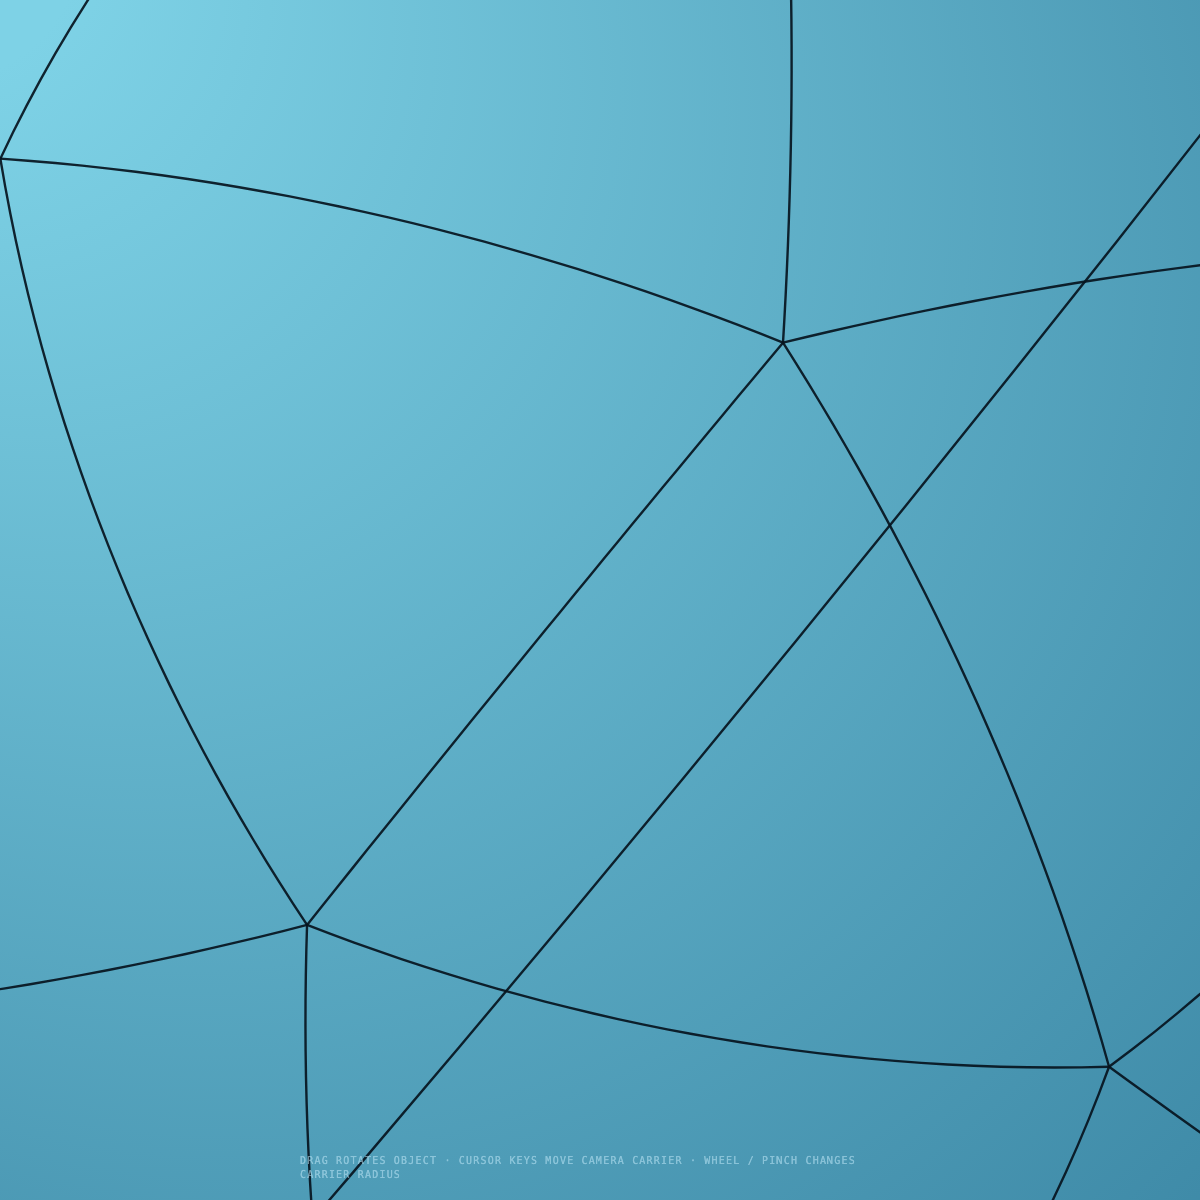
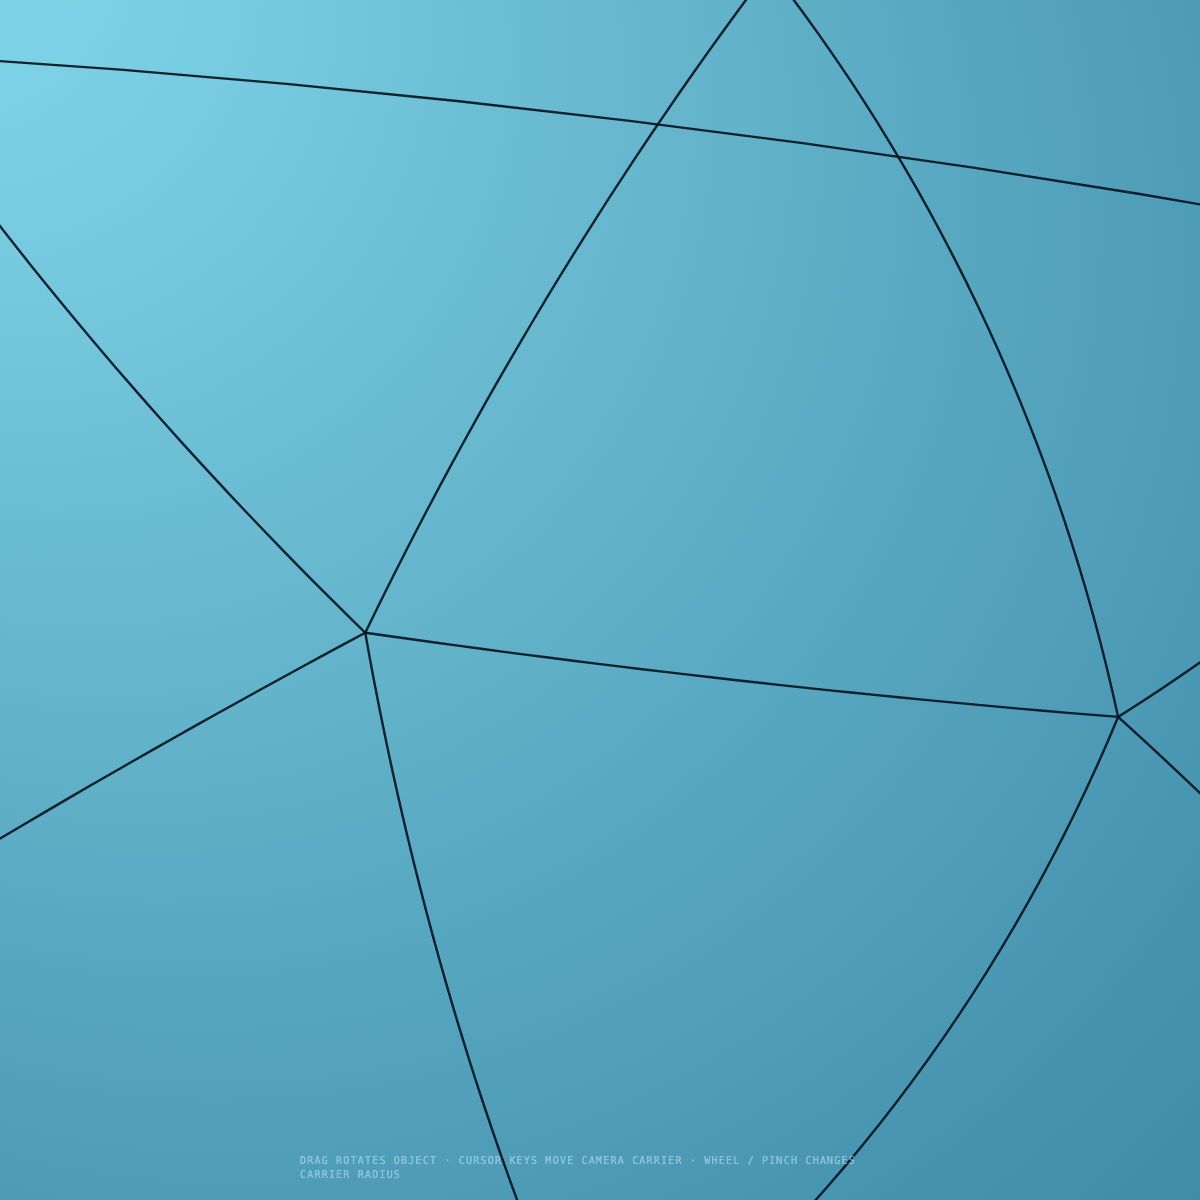
Carrier pos/up spherical pane camera; mathematically and visually tested

diff --git a/public/js/icosahedron-viewer.js b/public/js/icosahedron-viewer.js
@@ -5,7 +5,7 @@
  * - Wheel/pinch: changes the carrier sphere radius with fixed focal length (true dolly).
  */
 import { SphereCamera, SPHERE_SCREEN_FRACTION, CAMERA_DISTANCE, baseIcosahedron } from './shared/geometry.js';
-import { unprojectSphere as unprojectSurface, shortestArcQuat } from './shared/sphere-interaction.js';
+import { unprojectSphere as unprojectSurface, shortestArcQuat, carrierFrame, carrierProject, carrierUnproject, moveCarrier } from './shared/sphere-interaction.js';
 
 const canvas = document.getElementById('icosa-canvas');
 const ctx = canvas.getContext('2d');
@@ -23,8 +23,9 @@ const MAX_DISTANCE = 8.0;
 // Object rotation (mouse) as a world-space quaternion.
 let objectQ = { x: 0, y: 0, z: 0, w: 1 };
 
-// Camera orbit is a free quaternion; cursor keys rotate it locally with no pole clamp.
-const ORBIT_STEP = 28; // px passed to SphereCamera.rotate (0.006 rad/px)
+// Camera carrier: position + parallel-transported local up frame on the sphere.
+const ORBIT_STEP = 0.12; // radians per cursor press
+let carrier = carrierFrame(camera.viewAxis(), { x: 0, y: 1, z: 0 });
 
 let dpr = 1;
 let W = 1;
@@ -81,25 +82,22 @@ resize();
 
 /** Screen point -> visible unit-sphere surface point. */
 function focalPixels() {
-  // Fixed focal length: moving the carrier must change perspective, not scale.
+  // Fixed focal length: moving the carrier changes perspective, not optical zoom.
   return Math.min(W, H) * SPHERE_SCREEN_FRACTION * CAMERA_DISTANCE;
 }
 
 function projectPoint(v) {
-  const f = focalPixels();
-  const pv = qRotateVec(camera._q, v);
-  const depth = camera.distance - pv.z;
-  if (!(depth > 1e-9)) return { x: 0, y: 0, z: pv.z, visible: false };
+  const p = carrierProject(camera.distance, focalPixels(), carrier, v);
   return {
-    x: W / 2 + (f * pv.x) / depth,
-    y: H / 2 - (f * pv.y) / depth,
-    z: pv.z,
-    visible: pv.z > 0,
+    x: W / 2 + p.x,
+    y: H / 2 + p.y,
+    z: p.z,
+    visible: p.visible,
   };
 }
 
 function unprojectSphere(xPx, yPx) {
-  return unprojectSurface(camera, xPx, yPx, W, H, focalPixels());
+  return carrierUnproject(camera.distance, focalPixels(), carrier, xPx, yPx, W, H);
 }
 
 function draw() {
@@ -214,11 +212,11 @@ canvas.addEventListener('pointercancel', endPointer);
 
 window.addEventListener('keydown', (event) => {
   switch (event.key) {
-    // Local quaternion orbit: same Up direction forever, loops over poles, no clamp.
-    case 'ArrowLeft': camera.rotate(-ORBIT_STEP, 0); event.preventDefault(); break;
-    case 'ArrowRight': camera.rotate(ORBIT_STEP, 0); event.preventDefault(); break;
-    case 'ArrowUp': camera.rotate(0, ORBIT_STEP); event.preventDefault(); break;
-    case 'ArrowDown': camera.rotate(0, -ORBIT_STEP); event.preventDefault(); break;
+    // Carrier moves locally on the sphere; no Euler/pole lock.
+    case 'ArrowLeft': carrier = moveCarrier(carrier, -1, 0, ORBIT_STEP); event.preventDefault(); break;
+    case 'ArrowRight': carrier = moveCarrier(carrier, 1, 0, ORBIT_STEP); event.preventDefault(); break;
+    case 'ArrowUp': carrier = moveCarrier(carrier, 0, 1, ORBIT_STEP); event.preventDefault(); break;
+    case 'ArrowDown': carrier = moveCarrier(carrier, 0, -1, ORBIT_STEP); event.preventDefault(); break;
     default: break;
   }
 });
@@ -229,4 +227,4 @@ canvas.addEventListener('wheel', (event) => {
   camera.distance = carrierDistance;
 }, { passive: false });
 
-window.__ICOSA_VIEW__ = { camera, objectQ: () => objectQ, vertices, unprojectSphere, project: (v) => projectPoint(qRotateVec(objectQ, v)), orbit: () => ({ yaw: camera._yaw, pitch: camera._pitch, q: camera._q, viewAxis: camera.viewAxis() }), setObjectQ: (q) => { objectQ = qNorm(q); } };
+window.__ICOSA_VIEW__ = { camera, objectQ: () => objectQ, vertices, unprojectSphere, project: (v) => projectPoint(qRotateVec(objectQ, v)), carrier: () => ({ pos: { ...carrier.pos }, up: { ...carrier.up }, distance: camera.distance }), setObjectQ: (q) => { objectQ = qNorm(q); } };

diff --git a/public/js/shared/sphere-interaction.js b/public/js/shared/sphere-interaction.js
@@ -41,3 +41,70 @@ export function shortestArcQuat(p0, p1) {
 
 export const dotVec = dot;
 export const normVec = norm;
+
+/** Orthonormal camera frame on the carrier sphere. */
+export function carrierFrame(pos, up) {
+  const p = norm(pos);
+  let u = norm(up);
+  u = norm(sub(u, mul(p, dot(u, p))));
+  if (Math.hypot(u.x, u.y, u.z) < 1e-9) {
+    const seed = Math.abs(p.y) < 0.9 ? { x: 0, y: 1, z: 0 } : { x: 0, y: 0, z: 1 };
+    u = norm(sub(seed, mul(p, dot(seed, p))));
+  }
+  const right = norm(cross(u, p));
+  return { pos: p, up: u, right };
+}
+
+/** Fixed-focal projection from a carrier point; the camera always faces centre. */
+export function carrierProject(carrierDistance, focalPx, frame, point) {
+  const depth = carrierDistance - dot(point, frame.pos);
+  if (!(depth > 1e-9)) return { x: 0, y: 0, z: 0, visible: false };
+  return {
+    x: (focalPx * dot(point, frame.right)) / depth,
+    y: -(focalPx * dot(point, frame.up)) / depth,
+    z: dot(point, frame.pos),
+    visible: dot(point, frame.pos) > 0,
+    depth,
+  };
+}
+
+/** Screen ray -> sphere point from the carrier frame. */
+export function carrierUnproject(carrierDistance, focalPx, frame, xPx, yPx, width, height) {
+  const X = xPx - width / 2;
+  const Y = height / 2 - yPx;
+  const dir = norm(add(add(mul(frame.right, X), mul(frame.up, Y)), mul(frame.pos, -focalPx)));
+  const origin = mul(frame.pos, carrierDistance);
+  const b = 2 * dot(origin, dir);
+  const c = dot(origin, origin) - 1;
+  const disc = b * b - 4 * c;
+  if (!(disc >= 0)) return null;
+  const t = (-b - Math.sqrt(disc)) / 2;
+  if (!(t > 0)) return null;
+  return norm(add(origin, mul(dir, t)));
+}
+
+/** Move carrier on its sphere. dx=right/left, dy=up/down; no Euler/pole lock. */
+export function moveCarrier(frame, dx, dy, angle) {
+  const p = frame.pos;
+  const t = norm(add(mul(frame.right, dx), mul(frame.up, dy)));
+  if (Math.hypot(t.x, t.y, t.z) < 1e-12) return frame;
+  const a = angle;
+  const cos = Math.cos(a);
+  const sin = Math.sin(a);
+  const nextPos = norm(add(mul(p, cos), mul(t, sin)));
+  // Parallel transport up around the great-circle normal.
+  const axis = norm(cross(p, t));
+  const q = {
+    x: axis.x * Math.sin(-a / 2),
+    y: axis.y * Math.sin(-a / 2),
+    z: axis.z * Math.sin(-a / 2),
+    w: Math.cos(a / 2),
+  };
+  const rotate = (v) => {
+    const tx = 2 * (q.y * v.z - q.z * v.y);
+    const ty = 2 * (q.z * v.x - q.x * v.z);
+    const tz = 2 * (q.x * v.y - q.y * v.x);
+    return { x: v.x + q.w * tx + (q.y * tz - q.z * ty), y: v.y + q.w * ty + (q.z * tx - q.x * tz), z: v.z + q.w * tz + (q.x * ty - q.y * tx) };
+  };
+  return carrierFrame(nextPos, rotate(frame.up));
+}

diff --git a/test/sphere-interaction.test.js b/test/sphere-interaction.test.js
@@ -2,7 +2,7 @@ import test from 'node:test';
 import assert from 'node:assert/strict';
 
 import { SphereCamera, baseIcosahedron } from '../public/js/shared/geometry.js';
-import { unprojectSphere, shortestArcQuat } from '../public/js/shared/sphere-interaction.js';
+import { unprojectSphere, shortestArcQuat, carrierFrame, carrierProject, carrierUnproject, moveCarrier } from '../public/js/shared/sphere-interaction.js';
 
 const apply = (q, v) => {
   const tx = 2 * (q.y * v.z - q.z * v.y);
@@ -55,4 +55,38 @@ test('camera orbit: Up remains finite for a full loop and does not change distan
     assert.ok(Number.isFinite(axis.x) && Number.isFinite(axis.y) && Number.isFinite(axis.z));
   }
   assert.equal(cam.distance, distance, 'cursor orbit does not change carrier radius');
+});
+
+test('carrier pane: Up/Down/Left/Right always move along the current local tangent', () => {
+  const dot = (a, b) => a.x * b.x + a.y * b.y + a.z * b.z;
+  let frame = carrierFrame({ x: 0, y: 0, z: 1 }, { x: 0, y: 1, z: 0 });
+  for (let i = 0; i < 200; i += 1) {
+    const old = frame;
+    frame = moveCarrier(frame, 0, 1, 0.12);
+    const delta = { x: frame.pos.x - old.pos.x, y: frame.pos.y - old.pos.y, z: frame.pos.z - old.pos.z };
+    assert.ok(dot(delta, old.up) > 0, `Up step ${i} moved along local Up`);
+    assert.ok(Math.abs(dot(frame.pos, frame.up)) < 1e-9);
+    assert.ok(Math.abs(Math.hypot(frame.pos.x, frame.pos.y, frame.pos.z) - 1) < 1e-9);
+    assert.ok(Math.abs(Math.hypot(frame.up.x, frame.up.y, frame.up.z) - 1) < 1e-9);
+  }
+  let r = carrierFrame({ x: 0, y: 0, z: 1 }, { x: 0, y: 1, z: 0 });
+  for (let i = 0; i < 80; i += 1) {
+    const old = r;
+    r = moveCarrier(r, 1, 0, 0.12);
+    const delta = { x: r.pos.x - old.pos.x, y: r.pos.y - old.pos.y, z: r.pos.z - old.pos.z };
+    assert.ok(dot(delta, old.right) > 0, `Right step ${i} moved along local Right`);
+  }
+});
+
+test('carrier projection and unprojection recover a visible surface point', () => {
+  const frame = carrierFrame({ x: 0, y: 0, z: 1 }, { x: 0, y: 1, z: 0 });
+  const focal = 480 * 3.2;
+  const v = { x: 0.2, y: 0.1, z: 0.97 };
+  const n = Math.hypot(v.x, v.y, v.z);
+  const unit = { x: v.x / n, y: v.y / n, z: v.z / n };
+  const s = carrierProject(3.2, focal, frame, unit);
+  const back = carrierUnproject(3.2, focal, frame, 600 + s.x, 600 + s.y, 1200, 1200);
+  assert.ok(back);
+  const err = Math.hypot(back.x - unit.x, back.y - unit.y, back.z - unit.z);
+  assert.ok(err < 1e-9, `carrier ray recovers point, err=${err}`);
 });

diff --git a/narimato-physics.md b/narimato-physics.md
@@ -25,11 +25,12 @@
 One camera. It always sits on a **concentric orbit sphere** around the object centre.
 
 - The camera is fixed to a carrier point on that outer sphere.
+- The carrier has a position `pos` and a parallel-transported local `up` tangent.
 - **Zoom changes the carrier sphere radius** (`camera.distance`) with a **fixed focal length**;
   moving the carrier changes perspective/size like a real dolly, not a projection zoom.
-- The camera orbits freely and always faces the centre; zoom changes the carrier radius.
+- The camera always faces the centre; the projection uses the carrier frame.
 - “Space”, “flight”, “building” and “surface” are **the same object viewed by the same camera
-  orbit at a chosen orientation**, not different cameras with different distances.
+  carrier at a chosen position**, not different cameras.
 
 ### Camera orbit (cursor keys)
 
@@ -74,14 +75,15 @@ Screen → ray → sphere intersection:
 
 ```
 focal  = min(W,H) * SPHERE_SCREEN_FRACTION * CAMERA_DISTANCE  // fixed
-screenX = W/2 + focal * pv.x / (camera.distance - pv.z)
-screenY = H/2 - focal * pv.y / (camera.distance - pv.z)
+camera-space point: (dot(point,right), dot(point,up), dot(point,pos))
+depth = camera.distance - dot(point,pos)
+screenX = W/2 + focal * dot(point,right) / depth
+screenY = H/2 - focal * dot(point,up) / depth
 X = x - W/2
 Y = H/2 - y                      // screen Y is down; camera Y is up
 
-dirCam    = normalize(X, Y, -focal)      // NEGATIVE z: ray goes into the scene
-dirWorld  = camera.unprojectView(dirCam) // camera space → world space
-origin    = camera.viewAxis() * camera.distance
+dirWorld  = normalize(right*X + up*Y - pos*focal)
+origin    = pos * camera.distance
 ```
 
 Intersect the ray `origin + t·dirWorld` with the unit sphere centred at the origin:
@@ -101,9 +103,9 @@ grab returns `null` — dragging then does nothing.
 | Piece | Choice | Why |
 |---|---|---|
 | Object rotation | world-space quaternion `objectQ` | no gimbal lock, arbitrary orientation, shortest-arc |
-| Camera orbit | free quaternion (`camera.rotate` locally) | camera moves independently from object, no clamp |
+| Camera orbit | carrier `pos` + parallel-transported `up` | spherical-pane movement, no Euler/pole reversal |
 | Mouse | surface-point unprojection + shortest-arc quaternion | grabbed point follows cursor exactly |
-| Cursor keys | free camera quaternion | explicit local up/down/left/right, infinite orbit |
+| Cursor keys | `moveCarrier` | explicit local up/down/left/right, infinite orbit |
 | Zoom | `camera.distance` (carrier radius) | zoom dollies the carrier toward/away from the planet |
 | Geometry | `baseIcosahedron()` | one object, 20 spherical triangles |
 
@@ -113,10 +115,12 @@ grab returns `null` — dragging then does nothing.
   - `SphereCamera` quaternion orientation, `project()`, `unprojectView()`, `viewAxis()`,
     `beginVirtualTrackball()` / `virtualTrackballTo()` (kept for generic trackball use only).
 - `public/js/shared/orbit-controls.js`
-  - shared `applyScreenDrag`, `applyArrowKey`, `beginTrackball`, `dragTrackball`.
+  - shared `applyScreenDrag`, `applyArrowKey`, `beginTrackball`, `dragTrackball` (game input).
+- `public/js/shared/sphere-interaction.js`
+  - `carrierFrame`, `carrierProject`, `carrierUnproject`, `moveCarrier`; pure and tested.
 - `public/js/icosahedron-viewer.js`
-  - split `objectQ` (mouse) and free `camera` quaternion orbit (cursor keys);
-  - exact point-follow via `unprojectSphere()`.
+  - split `objectQ` (mouse) and carrier `pos`/`up` (cursor keys);
+  - exact point-follow via `carrierUnproject()`.
 - `public/js/app.js`
   - pointer input routes to the shared control primitives.
 
@@ -125,6 +129,8 @@ grab returns `null` — dragging then does nothing.
 - `test/orbit-controls.test.js` — drag direction, cursor-key direction, fixed orbit radius,
   virtual-trackball finiteness across poles.
 - `scripts/verify-icosahedron-controls.mjs` — browser-level numeric acceptance;
+- `scripts/verify-camera-carrier.mjs` — cursor keys change carrier only; mouse changes object only;
+  carrier radius/pos/up verified.
 - `scripts/verify-icosahedron-visual.mjs` — captures default/close/upside-down views and checks
   canvas coverage/background.
   - mouse-dragged surface point follows the cursor with error `< 0.01 px`;
@@ -136,8 +142,9 @@ Measured acceptance (1200×1200):
 - point-follow error Y: `7.054e-7 px`
 - visual acceptance: default/close/upside-down screenshots pass coverage/background checks
 - zoom: carrier `3.2 → 1.756` on wheel-up
-- cursor Up: view-axis Y `0.2667 → 0.4004` (camera up), yaw unchanged
-- 41× Up: quaternion norm `1.0`, no clamp/flip
+- carrier Up: 200 steps each move along previous local Up (`dot(delta, oldUp) > 0`), no reversals
+- carrier position/up remain unit length and tangent throughout
+- 41× Up: carrier position/up norm `1.0`, no clamp/flip
 
 ## 8. Do / do not
 

diff --git a/ALGORITHM.md b/ALGORITHM.md
@@ -12,7 +12,8 @@ shared by the browser renderer, the click picker, and the Node game server.
 Authoritative source: [narimato-physics.md](narimato-physics.md). Geometry/control essentials:
 
 - Object = the base 20-face spherical icosahedron; render the same triangles at every altitude.
-- Camera = carrier on a concentric orbit; cursor keys move the carrier, wheel changes carrier radius.
+- Camera = carrier on a concentric orbit (`pos` + parallel-transported `up`); cursor keys move it
+  locally, wheel changes carrier radius.
 - Mouse rotates the object via exact surface-point follow:
   `axis = cross(P0,P1)`, `angle = acos(dot(P0,P1))`, `objectQ = axisAngle(axis,angle) · objectQ0`.
 - Unprojection: `dirCam = normalize(X, Y, -focal)` (negative Z into scene), then `unprojectView`.
